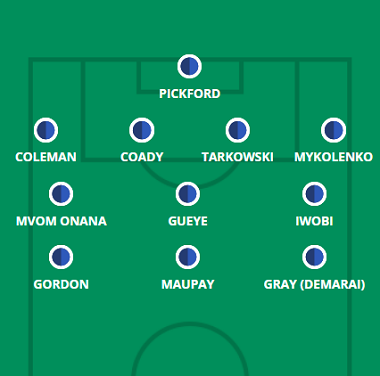
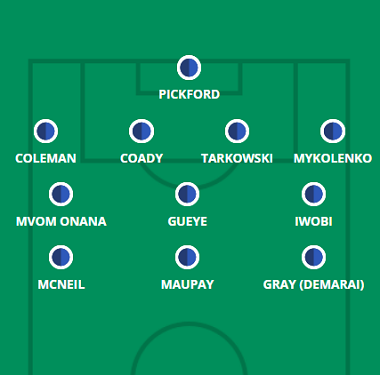
everton e nforest

diff --git a/everton.html b/everton.html
@@ -68,7 +68,7 @@
             <hgroup>
                 <h1> Provável Escalação</h1>
                 <h2 class="direita"> por FabioVascão </h2>
-                <h3 class="direita"> Atualizado em 07/Outubro/2022 </h3>
+                <h3 class="direita"> Atualizado em 13/Outubro/2022 </h3>
             </hgroup>
     
             <h2 class="time"> <img src="_fotos/_logos/logoeverton.png" />Everton</h2>
@@ -77,9 +77,9 @@
                     <img src="_fotos/_dinamicas/everton.png" />
                 </figure>
             </aside>
-                <div class="escalacao"><h2 class="titulo">Ultimas Notícias</h2> <h4><p>Nathan Patterson (lesão no joelho), Andros Townsend (lesão no joelho) e Ben Godfrey (lesão na perna) estão todos de fora antes da visita do Manchester United, enquanto Mason Holgate (lesão no joelho) e Yerry Mina (lesão no tornozelo) acabam de voltar aos treinos esta semana; O jogo de domingo definitivamente chega cedo demais para Holgate e provavelmente para Mina também. Dominic Calvert-Lewin (ritmo de jogo) também está em "contenção" depois de ser declarado livre de lesões por Frank Lampard na sexta-feira, embora quase certamente seja o banco de reservas para o ataque, já que a chegada de Neal Maupay diminuiu a necessidade de apressar Calvert-Lewin de volta. Com o Everton em uma invencibilidade de seis partidas, as mudanças serão poucas e distantes novamente esta semana. Seis da escalação prevista aqui são titulares sempre presentes a partir da Rodada 4 em diante, enquanto podemos adicionar Jordan Pickford (que só perdeu a Rodada 8 por lesão), Seamus Coleman, Idrissa Gueye e Maupay à coluna 'muito provável de aparecer' após performances e resultados recentes. A única posição em dúvida sai aberta, onde Dwight McNeil foi convocado de surpresa contra o Southampton. O banco de Anthony Gordon estava ligado a uma doença que o ala havia sofrido nos dias anteriores ao jogo, mas depois que McNeil marcou na costa sul, certamente não há garantia de que Gordon recupere seu lugar no flanco.</p></h4><br>
-                    <h4><strong>Jogadores fora da próxima partida:</strong> Godfrey, Holgate, Patterson e Townsend</h4><br><br>
-                    <h4><strong>Jogadores dúvidas:</strong> Calvert-Lewin e Mina</h4>
+                <div class="escalacao"><h2 class="titulo">Ultimas Notícias</h2> <h4><p>Anthony Gordon cumpre uma partida de suspensão depois de receber seu quinto cartão amarelo da temporada na 10° Rodada, enquanto Nathan Patterson (lesão no joelho), Andros Townsend (lesão no joelho) e Ben Godfrey (lesão na perna) estão todos de fora antes da viagem para Londres. Enquanto isso, Mason Holgate (lesão no joelho) e Yerry Mina (lesão na panturrilha) voltaram aos treinos após longas paradas, mas o primeiro não está apto o suficiente para ser considerado para a seleção, enquanto Mina sofreu um revés na forma de uma pequena lesão na panturrilha. Dwight McNeil no lugar do suspenso Gordon é a mudança óbvia se Frank Lampard quiser manter a mesma configuração 4-3-3 que serviu tão bem aos Toffees até a derrota para o Manchester United, o estreante James Garner é outro possível substituto se Lampard optar por colocar em campo o versátil Alex Iwobi em boa forma. Não vimos Lampard começar com um sistema de ala desde agosto, mas é uma possibilidade neste fim de semana, com Seamus Coleman ou Michael Keane sendo usados como terceiro zagueiro e Iwobi talvez se mudando para ala direita. Abdoulaye Doucoure (razões pessoais) está novamente disponível e estará de volta entre os substitutos, onde provavelmente será acompanhado por Dominic Calvert-Lewin depois que Lampard confirmou que o atacante ainda estava com falta de condicionamento físico.</p></h4><br>
+                    <h4><strong>Jogadores fora da próxima partida:</strong> Godfrey, Holgate, Mina, Patterson, Gordon e Townsend</h4><br><br>
+                    <h4><strong>Jogadores dúvidas:</strong> </h4>
                 </div> 
         </header>
         </article>

diff --git a/nforest.html b/nforest.html
@@ -68,7 +68,7 @@
             <hgroup>
                 <h1> Provável Escalação</h1>
                 <h2 class="direita"> por FabioVascão </h2>
-                <h3 class="direita"> Atualizado em 07/Outubro/2022 </h3>
+                <h3 class="direita"> Atualizado em 13/Outubro/2022 </h3>
             </hgroup>
     
             <h2 class="time"> <img src="_fotos/_logos/logonforest.png" />Nottingham Forest</h2>
@@ -77,9 +77,9 @@
                     <img src="_fotos/_dinamicas/nforest.png" />
                 </figure>
             </aside>
-                <div class="escalacao"><h2 class="titulo">Ultimas Notícias</h2> <h4><p>Steve Cooper disse no pré-jogo de sexta-feira que não houve mudança na situação das notícias da equipe do Nottingham Forest antes do confronto de segunda-feira com o Aston Villa, o que parece implicar que Omar Richards (lesão na perna), Moussa Niakhate (lesão múscular) e Jack Colback (lesão nas costas) percam novamente o jogo. Para onde Cooper leva seu time daqui é uma incógnita, já que a mudança de formação para um 4-2-3-1 não conseguiu conter o fluxo de gols na parte de trás na noite de segunda-feira. Joe Worrall e Willy Boly são opções como terceiro zagueiro se Cooper optar por voltar ao básico com um 3-4-2-1/3-4-1-2, enquanto a incerteza está surgindo no lateral após Neco Williams e Renan Lodi novamente lisonjeados por enganar na Rodada 9; A participação decente de Serge Aurier no segundo tempo no lugar de Williams só aumentou a sensação de instabilidade. Há muitas opções no meio-campo, com Orel Mangala, Ryan Yates e Remo Freuler, todos emergindo do banco no King Power Stadium, embora haja uma competição aparentemente menos genuína mais à frente, já que Cooper continua resistindo a entregar a Emmanuel Dennis um primeiro início da Premier League em 2022 /23.</p></h4><br>
-                    <h4><strong>Jogadores fora da próxima partida:</strong> Richards e Samba</h4><br><br>
-                    <h4><strong>Jogadores dúvidas:</strong> Colback e Niakhaté </h4>
+                <div class="escalacao"><h2 class="titulo">Ultimas Notícias</h2> <h4><p>Omar Richards (lesão na perna), Moussa Niakhate (lesão múscular) e Jack Colback (lesão nas costas) novamente parecem perdidos, mas não há outras preocupações físicas conhecidas para Forest, com Steve Cooper dizendo que sua equipe saiu ilesa do empate de segunda-feira com o Aston Villa. Esse ponto contra os Villans encerrou uma série de cinco derrotas consecutivas, então, após um período de constantes ajustes com seus novos recrutas, Cooper pode optar por dar outra chance ao time da 10° Rodada, especialmente com Forest parecendo mais sólido em um novo esquema 4-3-3. Cheikhou Kouyate parece ser o elo mais fraco no meio-campo e Cooper tem Lewis O'Brien e Orel Mangala esperando nas laterais, enquanto Taiwo Awoniyi, Sam Surridge e Jesse Lingard são alternativas no ataque - e é a falta de criatividade que estará no topo da lista de tarefas de Cooper após uma exibição defensiva aprimorada. Enquanto isso, Neco Williams e Renan Lodi foram demitidos como laterais, com os elogios de Cooper a Serge Aurier na quinta-feira sugerindo que o ex-jogador dos Spurs mantém seu lugar em Molineux. Mesmo que Cooper permaneça inalterado no sábado, Forest enfrentará mais duas partidas da liga em rápida sucessão e mudanças podem ocorrer nas semanas 12 e/ou 13.</p></h4><br>
+                    <h4><strong>Jogadores fora da próxima partida:</strong> Niakhaté , Richards e Samba</h4><br><br>
+                    <h4><strong>Jogadores dúvidas:</strong> Colback </h4>
                 </div> 
         </header>
         </article>
